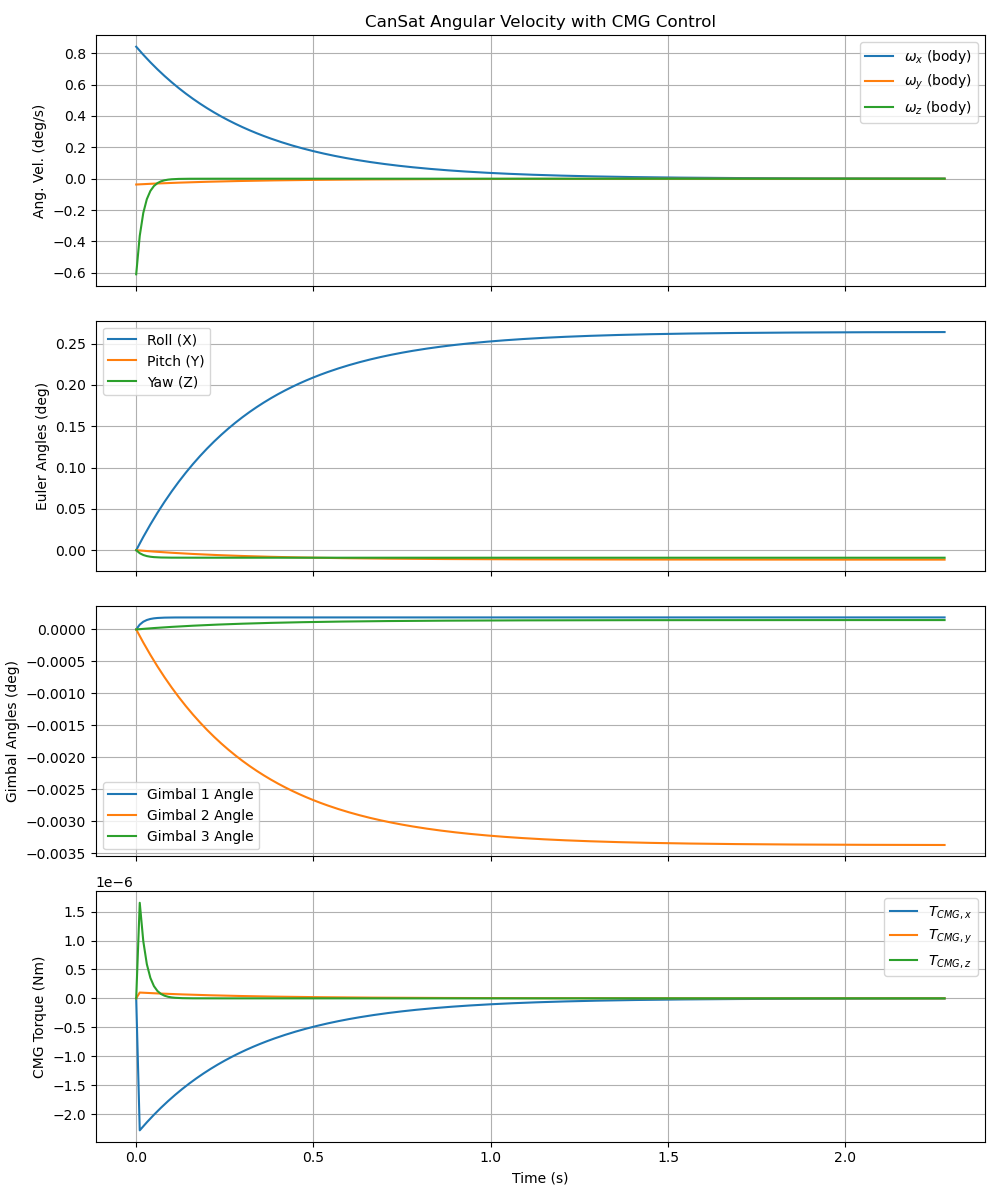
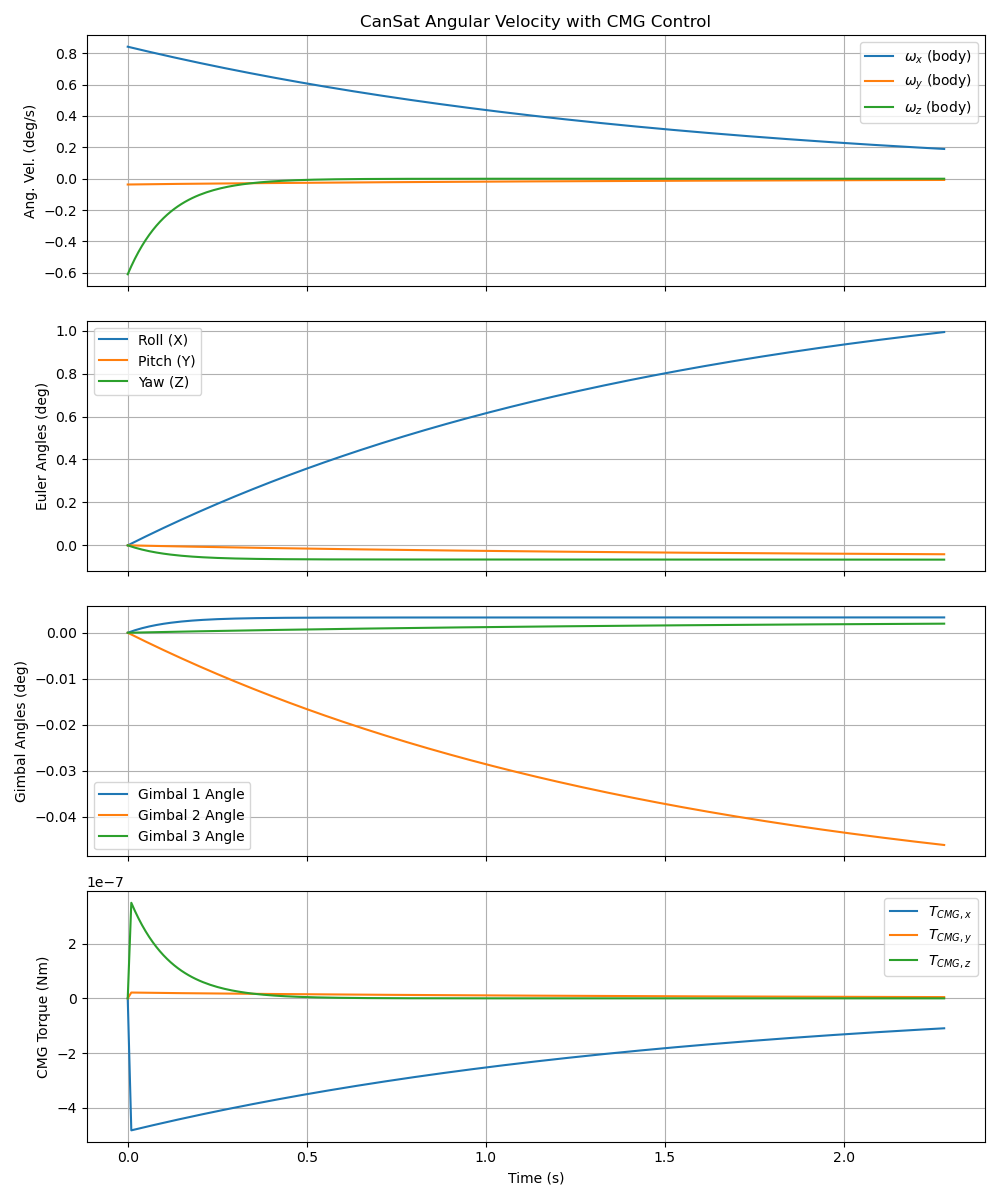
3CMGのシミュレーションを追加

diff --git a/cmg_controller.py b/cmg_controller.py
@@ -16,7 +16,9 @@ CAN_WIDTH = 0.020   # Y軸方向
 CAN_HEIGHT = 0.095  # Z軸方向
 
 
-
+"""
+テンソアを計算
+"""
 def get_inertia_tensor_cuboid(mass, l, w, h):
     I_xx = (1/12) * mass * (w**2 + h**2)
     I_yy = (1/12) * mass * (l**2 + h**2)
@@ -27,15 +29,18 @@ I_CANSAT_BODY = get_inertia_tensor_cuboid(MASS_CANSAT, CAN_LENGTH, CAN_WIDTH, CA
 I_CANSAT_BODY_INV = np.linalg.inv(I_CANSAT_BODY)
 
 # CMG パラメータ (例 - 3基共通とする)
-I_WHEEL = 2e-5  # ホイールの慣性モーメント (kg*m^2)
-OMEGA_WHEEL_NOMINAL_RPM = 6000  # ホイール定格回転数 (rpm)
+I_WHEEL = 1.357e-5  # ホイールの慣性モーメント (kg*m^2)　タングステン合金を想定
+OMEGA_WHEEL_NOMINAL_RPM = 500  # ホイール定格回転数 (rpm)
 OMEGA_WHEEL_NOMINAL_RAD_S = OMEGA_WHEEL_NOMINAL_RPM * (2 * np.pi) / 60
 H_WHEEL_SCALAR = I_WHEEL * OMEGA_WHEEL_NOMINAL_RAD_S # ホイールの角運動量の大きさ
 GIMBAL_RATE_MAX_DPS = 90  # ジンバル最大角速度 (deg/s)
 GIMBAL_RATE_MAX_RAD_S = np.deg2rad(GIMBAL_RATE_MAX_DPS)
 
 # 制御ゲイン
-KP_OMEGA = 0.01 # 角速度制御の比例ゲイン (要調整)
+KP_OMEGA = 0.65 # 角速度制御の比例ゲイン でかくすると振動する
+
+# CMGの想定は
+
 
 # CMG配置: [ジンバル軸(物体座標系), ジンバル角0度でのホイールスピン軸(物体座標系)]
 CMG_CONFIG = [
@@ -43,15 +48,14 @@ CMG_CONFIG = [
     {'gimbal_axis': np.array([0., 1., 0.]), 'initial_spin_axis': np.array([0., 0., 1.])}, # CMG2: Yジンバル, Zスピン
     {'gimbal_axis': np.array([0., 0., 1.]), 'initial_spin_axis': np.array([1., 0., 0.])}, # CMG3: Zジンバル, Xスピン
 ]
+
 NUM_CMGS = len(CMG_CONFIG)
 
-# 観測された角速度データ (dps単位のリスト gyro_datas_x, gyro_datas_y, gyro_datas_z があると仮定)
+# 観測された角速度データ [dps]
 gyro_datas_x = [0.841, 0.833, 0.852, 0.848, 0.791, 0.781, 0.891, 0.802, 0.884, 0.843, 0.875, 0.734, 0.769, 0.829, 0.786, 0.919, 0.889, 0.807, 0.834, 0.927, 0.886, 0.963, 1.007, 0.892, 0.855, 0.765, 0.479, 0.424, 0.633, 0.674, 0.577, 0.496, 0.572, 0.648, 0.587, 0.371, 0.448, 0.487, 0.599, 0.622, 0.655, 0.455, 0.992, 0.644, 0.99, 1.021, 0.877, 0.821, 0.805, 0.865, 0.802, 0.796, 0.813, 0.716, 0.799, 0.802, 0.855, 0.913, 0.834, 0.839, 0.806, 0.819, 0.783, 0.834, 0.877, 0.854, 0.726, 0.746, 0.785, 0.771, 0.786, 0.787, 0.817, 0.701, 0.725, 0.645, 0.441, 0.57, 0.262, 0.184, 0.29, 0.399, 0.321, 0.263, 0.251, 0.306, 0.274, 0.303, 0.342, 0.304, 0.296, 0.316, 0.348, 0.335, 0.336, 0.372, 0.37, 0.372, 0.362, 0.342, 0.337, 0.345, 0.337, 0.318, 0.329, 0.303, 0.309, 0.318, 0.316, 0.322, 0.315, 0.325, 0.321, 0.309, 0.313, 0.332, 0.346, 0.31, 0.297, 0.278, 0.294, 0.317, 0.293, 0.277, 0.274, 0.271, 0.257, 0.278, 0.292, 0.303, 0.257, 0.289, 0.347, 0.375, 0.379, 0.315, 0.404, 0.465, 0.519, 0.494, 0.544, 0.526, 0.514, 0.52, 0.501, 0.531, 0.519, 0.599, 0.597, 0.576, 0.601, 0.574, 0.548, 0.543, 0.53, 0.566, 0.567, 0.637, 0.087, 0.137, 0.341, 0.457, 0.425, 0.532, 0.565, 0.505, 0.836, 0.717, 0.572, 0.349, 0.421, 0.542, 0.745, 0.76, 0.656, 0.586, 0.515, 0.382, 0.149, -0.022, 0.442, 0.516, -0.021, -0.553, -1, -0.268, -0.287, -0.219, -0.228, -0.375, -0.255, -0.25, -0.136, -0.204, -0.08, 0.059, -0.083, -0.041, -0.005, -0.016, -0.079, -0.056, 0.084, 0.038, 0.122, 0.098, 0.053, 0.005, -0.008, 0.148, 0.204, 0.268, 0.26, 0.234, 0.216, 0.249, 0.285, 0.152, 0.209, 0.37, 0.091, 0.419, 0.217, 0.334, 0.267, 0.339, 0.226, 0.307, 0.295]
 gyro_datas_y = [-0.037, -0.041, -0.021, -0.168, 0.082, 0.094, 0.013, 0.119, 0.191, 0.134, 0.168, 0.168, 0.181, 0.181, 0.155, 0.16, 0.198, 0.354, 0.299, 0.443, 0.32, 0.229, -0.077, -0.103, -0.343, -0.419, -0.604, -0.685, -0.799, -0.767, -0.677, -0.654, -0.7, -0.82, -0.724, -0.132, -0.682, -0.729, -0.696, -0.49, -0.611, -0.141, -0.386, -0.132, -0.386, -0.263, -0.342, -0.332, -0.338, -0.341, -0.32, -0.358, -0.398, -0.422, -0.492, -0.425, -0.38, -0.438, -0.389, -0.358, -0.372, -0.333, -0.335, -0.365, -0.416, -0.42, -0.423, -0.468, -0.491, -0.46, -0.482, -0.466, -0.485, -0.382, -0.429, -0.337, -0.226, -0.61, -0.321, -0.329, -0.372, -0.472, -0.401, -0.34, -0.423, -0.451, -0.442, -0.446, -0.387, -0.362, -0.33, -0.382, -0.414, -0.404, -0.396, -0.396, -0.387, -0.407, -0.4, -0.377, -0.381, -0.377, -0.378, -0.381, -0.393, -0.372, -0.381, -0.377, -0.386, -0.397, -0.393, -0.403, -0.386, -0.386, -0.396, -0.429, -0.405, -0.44, -0.398, -0.395, -0.447, -0.502, -0.502, -0.485, -0.463, -0.456, -0.445, -0.466, -0.421, -0.409, -0.425, -0.503, -0.478, -0.479, -0.607, -0.479, -0.545, -0.515, -0.625, -0.445, -0.495, -0.382, -0.329, -0.362, -0.359, -0.396, -0.385, -0.411, -0.388, -0.352, -0.365, -0.357, -0.319, -0.332, -0.312, -0.31, -0.29, -0.297, -0.039, -0.064, -0.162, -0.325, -0.291, -0.373, -0.3, -0.139, -0.478, -0.261, -0.475, -0.412, -0.516, -0.517, -0.724, -0.706, -0.525, -0.669, -0.663, -0.384, -0.45, -0.929, -0.387, -0.301, -5.189, -0.387, -1.412, -0.163, -0.353, -0.575, -0.495, -0.298, -0.388, -0.491, -0.437, -0.397, -0.5, -0.48, -0.546, -0.377, -0.421, -0.449, -0.406, -0.521, -0.504, -0.531, -0.338, -0.284, -0.317, -0.273, -0.189, -0.316, -0.219, -0.153, -0.022, -0.165, -0.145, -0.042, 0.033, -0.049, -0.019, -0.007, -0.034, -0.057, -0.254, -0.232, -0.39, -0.266, -0.316, -0.068, -0.146]
 gyro_datas_z = [-0.609,-0.585,-0.604,-0.622,-0.567,-0.607,-0.665,-0.596,-0.662,-0.645,-0.665,-0.58,-0.606,-0.647,-0.606,-0.688,-0.675,-0.571,-0.438,-0.42,-0.331,-0.332,-0.257,-0.153,-0.271,-0.525,-0.561,-0.491,-0.375,-0.342,-0.509,-0.503,-0.445,-0.385,-0.281,-0.413,-0.937,-0.759,-0.703,-0.636,-0.66,-0.433,-0.907,-0.557,-0.663,-0.632,-0.566,-0.481,-0.457,-0.498,-0.476,-0.481,-0.451,-0.424,-0.482,-0.47,-0.51,-0.545,-0.492,-0.49,-0.448,-0.443,-0.425,-0.464,-0.562,-0.514,-0.479,-0.513,-0.559,-0.541,-0.556,-0.553,-0.585,-0.535,-0.578,-0.553,-0.454,-1.005,-0.917,-0.906,-0.892,-1.016,-0.896,-0.826,-0.962,-0.908,-0.893,-0.987,-1.023,-0.888,-0.875,-0.914,-0.998,-0.909,-0.895,-0.957,-0.948,-0.999,-0.913,-0.889,-0.898,-0.929,-0.923,-0.908,-0.919,-0.891,-0.928,-0.949,-0.927,-0.918,-0.897,-0.916,-0.91,-0.885,-0.917,-0.958,-0.936,-0.883,-0.844,-0.874,-0.885,-0.952,-0.917,-0.887,-0.935,-0.879,-0.86,-0.913,-0.921,-0.92,-0.829,-0.857,-0.75,-0.742,-0.895,-0.779,-0.937,-0.807,-0.847,-0.743,-0.838,-0.808,-0.762,-0.755,-0.781,-0.815,-0.787,-0.871,-0.856,-0.826,-0.872,-0.839,-0.782,-0.781,-0.745,-0.775,-0.758,-0.838,-0.135,-0.272,-0.296,-0.435,-0.39,-0.478,-0.63,-0.583,-0.605,-0.833,-0.787,-0.75,-1.035,-1.058,-0.988,-0.891,-0.895,-1.134,-0.953,-0.635,-0.725,-1.155,-0.602,-1.457,7.93,1.188,-1.413,-0.945,-0.962,-0.753,-0.701,-0.892,-0.803,-0.795,-0.901,-0.839,-0.926,-0.919,-1.081,-0.89,-0.883,-0.906,-0.885,-0.961,-1.133,-1.193,-0.998,-0.84,-0.955,-0.993,-1.011,-1.072,-1.112,-1.021,-1.031,-0.983,-0.884,-1.005,-1.124,-1.123,-0.994,-0.851,-0.941,-1.175,-1.043,-0.967,-0.983,-0.94,-1.009,-0.969,-0.982]
-	
-# ※これらのリストが同じ長さで、対応する時間軸があることを想定しています。
-# ※もし時間軸データがない場合は、サンプリングレートからDTを決定する必要があります。
+
 
 if not (gyro_datas_x and gyro_datas_y and gyro_datas_z and \
         len(gyro_datas_x) == len(gyro_datas_y) == len(gyro_datas_z) and \
@@ -224,9 +228,10 @@ plt.tight_layout()
 plt.savefig("cansat_cmg_simulation_plots.png")
 plt.show()
 
-# --- 5. アニメーション (既存のコードを参考に作成) ---
-# ここでは省略しますが、orientation_hist_quat を使って物体の姿勢をアニメーション化します。
-# 物体の頂点座標 (既存のものを流用)
+
+# --- 5. アニメーション ---
+
+# CanSat本体の頂点定義
 vertices_body_frame = np.array([
     [-CAN_LENGTH/2, -CAN_WIDTH/2, -CAN_HEIGHT/2], [ CAN_LENGTH/2, -CAN_WIDTH/2, -CAN_HEIGHT/2],
     [ CAN_LENGTH/2,  CAN_WIDTH/2, -CAN_HEIGHT/2], [-CAN_LENGTH/2,  CAN_WIDTH/2, -CAN_HEIGHT/2],
@@ -234,33 +239,208 @@ vertices_body_frame = np.array([
     [ CAN_LENGTH/2,  CAN_WIDTH/2,  CAN_HEIGHT/2], [-CAN_LENGTH/2,  CAN_WIDTH/2,  CAN_HEIGHT/2]
 ])
 
-fig_anim = plt.figure(figsize=(8,8))
-ax_anim = fig_anim.add_subplot(111, projection='3d')
+# CMGホイール描画用のパラメータ
+WHEEL_RADIUS = 0.015  # ホイールの半径 (m) - CanSatのサイズに合わせて調整
+WHEEL_THICKNESS = 0.003 # ホイールの厚み (m) - 視覚的なもの
+SPOKE_COLOR = 'red'
+WHEEL_EDGE_COLOR = 'darkgray'
+WHEEL_FACE_COLOR = 'lightgray'
 
-def update_animation(frame):
-    ax_anim.cla()
-    ax_anim.set_xlim([-0.1, 0.1]); ax_anim.set_ylim([-0.1, 0.1]); ax_anim.set_zlim([-0.1, 0.1]) # スケール調整
-    ax_anim.set_xlabel("X"); ax_anim.set_ylabel("Y"); ax_anim.set_zlabel("Z")
-    ax_anim.set_title(f"CanSat Attitude, Time: {time_hist[frame]:.2f} s")
+def create_cylinder_mesh(radius, height, n_segments=20):
+    """円柱のメッシュデータを生成 (中心が原点、軸がZ軸方向)"""
+    # 底面と上面の円周上の点
+    theta = np.linspace(0, 2 * np.pi, n_segments, endpoint=False)
+    x = radius * np.cos(theta)
+    y = radius * np.sin(theta)
 
-    # Scipyのクォータニオンは [x,y,z,w] なので、Rotationオブジェクトに渡す際はそのまま
-    q_current_scipy = orientation_hist_quat[frame, :]
-    R_body_to_inertial = R.from_quat(q_current_scipy).as_matrix()
+    # 底面の頂点 (z = -height/2)
+    bottom_verts = np.vstack((x, y, -height/2 * np.ones(n_segments))).T
+    # 上面の頂点 (z = height/2)
+    top_verts = np.vstack((x, y, height/2 * np.ones(n_segments))).T
 
-    rotated_vertices = (R_body_to_inertial @ vertices_body_frame.T).T
+    all_verts = np.vstack((bottom_verts, top_verts))
 
-    faces = [
-        [rotated_vertices[0], rotated_vertices[1], rotated_vertices[2], rotated_vertices[3]],
-        [rotated_vertices[4], rotated_vertices[5], rotated_vertices[6], rotated_vertices[7]],
-        [rotated_vertices[0], rotated_vertices[1], rotated_vertices[5], rotated_vertices[4]],
-        [rotated_vertices[2], rotated_vertices[3], rotated_vertices[7], rotated_vertices[6]],
-        [rotated_vertices[1], rotated_vertices[2], rotated_vertices[6], rotated_vertices[5]],
-        [rotated_vertices[0], rotated_vertices[3], rotated_vertices[7], rotated_vertices[4]]
+    faces = []
+    # 側面
+    for i in range(n_segments):
+        i_next = (i + 1) % n_segments
+        faces.append([bottom_verts[i], bottom_verts[i_next], top_verts[i_next], top_verts[i]])
+    # 底面 (ポリゴンとして描画)
+    # faces.append(Poly3DCollection([bottom_verts], facecolors=WHEEL_FACE_COLOR, edgecolors=WHEEL_EDGE_COLOR, alpha=0.8))
+    #上面
+    # faces.append(Poly3DCollection([top_verts], facecolors=WHEEL_FACE_COLOR, edgecolors=WHEEL_EDGE_COLOR, alpha=0.8))
+    return all_verts, faces # ここでは側面の面定義のみ返す (Poly3DCollectionで使うため)
+
+def create_disk_points(radius, n_points=50):
+    """指定された半径の円周上の点を生成 (XY平面上、Z=0)"""
+    theta = np.linspace(0, 2 * np.pi, n_points)
+    x = radius * np.cos(theta)
+    y = radius * np.sin(theta)
+    z = np.zeros(n_points)
+    return np.vstack((x, y, z)).T # Nx3 配列
+
+
+fig_anim_cmg = plt.figure(figsize=(10,10)) # ウィンドウサイズ調整
+ax_anim_cmg = fig_anim_cmg.add_subplot(111, projection='3d')
+ax_anim_cmg.view_init(elev=25, azim=45) # 固定のカメラ視点
+
+# アニメーション更新関数
+def update_animation_with_cmg(frame):
+    ax_anim_cmg.cla()
+    ax_anim_cmg.set_xlim([-0.05, 0.05]); ax_anim_cmg.set_ylim([-0.05, 0.05]); ax_anim_cmg.set_zlim([-0.07, 0.07]) # 描画範囲調整
+    ax_anim_cmg.set_xlabel("X_inertial"); ax_anim_cmg.set_ylabel("Y_inertial"); ax_anim_cmg.set_zlabel("Z_inertial")
+    ax_anim_cmg.set_title(f"CanSat Attitude & CMG, Time: {time_hist[frame]:.2f} s")
+
+    # --- 1. CanSat本体の描画 ---
+    q_cansat_current = orientation_hist_quat[frame, :]
+    R_cansat_to_inertial_mat = R.from_quat(q_cansat_current).as_matrix()
+    rotated_cansat_vertices = (R_cansat_to_inertial_mat @ vertices_body_frame.T).T
+    cansat_faces_def = [ # 直方体の面定義
+        [rotated_cansat_vertices[0], rotated_cansat_vertices[1], rotated_cansat_vertices[2], rotated_cansat_vertices[3]],
+        [rotated_cansat_vertices[4], rotated_cansat_vertices[5], rotated_cansat_vertices[6], rotated_cansat_vertices[7]],
+        [rotated_cansat_vertices[0], rotated_cansat_vertices[1], rotated_cansat_vertices[5], rotated_cansat_vertices[4]],
+        [rotated_cansat_vertices[2], rotated_cansat_vertices[3], rotated_cansat_vertices[7], rotated_cansat_vertices[6]],
+        [rotated_cansat_vertices[1], rotated_cansat_vertices[2], rotated_cansat_vertices[6], rotated_cansat_vertices[5]],
+        [rotated_cansat_vertices[0], rotated_cansat_vertices[3], rotated_cansat_vertices[7], rotated_cansat_vertices[4]]
     ]
-    poly3d = Poly3DCollection(faces, facecolors='cyan', linewidths=1, edgecolors='k', alpha=0.7)
-    ax_anim.add_collection3d(poly3d)
+    # 缶サットの描画
+
+    cansat_poly3d = Poly3DCollection(
+    cansat_faces_def,
+    facecolors='cyan',  # 面の色
+    linewidths=0.5,     # 輪郭線を細くするのも効果的です
+    edgecolors='gray',  # 輪郭線の色
+    alpha=0.15          # 透過度を調整
+    )    
+    ax_anim_cmg.add_collection3d(cansat_poly3d)
+
+    # --- 2. 各CMGの描画 ---
+    for k_cmg in range(NUM_CMGS):
+        # a. CMGの基本設定 (CanSatボディ座標系)
+        gimbal_axis_body = CMG_CONFIG[k_cmg]['gimbal_axis']
+        initial_spin_axis_body = CMG_CONFIG[k_cmg]['initial_spin_axis']
+        
+        # CMGの取り付け位置 (CanSatボディ座標系) - 例: CanSatのZ軸に沿って少しずらす
+        # (これは例なので、実際の配置に合わせて調整してください)
+        offset_scale = 0.03 # CanSatの中心から少しずらす距離
+        if k_cmg == 0: cmg_position_body = np.array([0, 0, offset_scale])  # 上の方
+        elif k_cmg == 1: cmg_position_body = np.array([0, 0, 0])           # 中央
+        else: cmg_position_body = np.array([0, 0, -offset_scale]) # 下の方
+        # もしX,Y,Z軸にそれぞれ配置するなら:
+        # if gimbal_axis_body[0] == 1: cmg_position_body = np.array([offset_scale * 0.7, 0, 0])
+        # elif gimbal_axis_body[1] == 1: cmg_position_body = np.array([0, offset_scale * 0.7, 0])
+        # else: cmg_position_body = np.array([0, 0, offset_scale * 0.7])
+
+
+        # b. 現在のジンバル角度とジンバル回転行列 (ボディ座標系内でジンバル回転)
+        current_gimbal_angle_rad = gimbal_angles_rad_hist[frame, k_cmg]
+        R_gimbal_in_body = R.from_rotvec(gimbal_axis_body * current_gimbal_angle_rad).as_matrix()
+
+        # c. ジンバル回転後のホイールスピン軸 (CanSatボディ座標系)
+        current_spin_axis_body = R_gimbal_in_body @ initial_spin_axis_body
+
+        # d. ホイールの変換行列を計算 (基準姿勢から現在の姿勢へ)
+        #    基準姿勢: ホイールの中心が原点、スピン軸がZ軸=[0,0,1]
+        #    目標姿勢: 中心が cmg_position_body、スピン軸が current_spin_axis_body (これら全てCanSatボディ座標系内)
+        
+        #    d1. Z軸を current_spin_axis_body に合わせる回転 (ボディ座標系内)
+        vec_from = np.array([0., 0., 1.])
+        vec_to = current_spin_axis_body / np.linalg.norm(current_spin_axis_body)
+        
+        R_spin_align_in_body = np.eye(3)
+        if not np.allclose(vec_from, vec_to):
+            if np.allclose(vec_from, -vec_to): # 180度回転
+                # vec_fromに垂直な軸を一つ見つける (例: X軸とクロス積)
+                ortho_axis = np.cross(vec_from, np.array([1.,0.,0.]))
+                if np.linalg.norm(ortho_axis) < 1e-6: # vec_from がX軸に平行だった場合
+                    ortho_axis = np.cross(vec_from, np.array([0.,1.,0.]))
+                if np.linalg.norm(ortho_axis) > 1e-6:
+                   R_spin_align_in_body = R.from_rotvec(np.pi * ortho_axis / np.linalg.norm(ortho_axis)).as_matrix()
+                else: # 稀なケース、vec_from が Z軸で ortho_axis もゼロになることはないはず
+                   R_spin_align_in_body = np.diag([1.,-1.,-1.]) # 180度回転の例
+            else:
+                rot_obj, _ = R.align_vectors(vec_to[np.newaxis,:], vec_from[np.newaxis,:])
+                R_spin_align_in_body = rot_obj.as_matrix()
+        
+        # e. ホイールの描画
+        #    e1. ホイールのメッシュ (円柱形状)
+        base_wheel_verts, base_wheel_faces_def = create_cylinder_mesh(WHEEL_RADIUS, WHEEL_THICKNESS)
+        
+        #    e2. ボディ座標系でのホイール頂点
+        #        まずスピン軸方向に回転させ、次にCMGの取り付け位置に平行移動
+        wheel_verts_body = (R_spin_align_in_body @ base_wheel_verts.T).T + cmg_position_body
+        
+        #    e3. 慣性系でのホイール頂点
+        wheel_verts_inertial = (R_cansat_to_inertial_mat @ wheel_verts_body.T).T
+
+        #    e4. Poly3DCollectionでホイールの面を描画 (側面)
+        # Poly3DCollectionは頂点リストのリストを受け取るので、facesの定義を調整
+        wheel_faces_for_plot = []
+        for face_indices_in_base_wheel_verts in base_wheel_faces_def: # これは現在頂点そのもの
+            # wheel_faces_for_plot.append([wheel_verts_inertial[idx] for idx in face_indices_in_base_wheel_verts])
+            # create_cylinder_mesh が直接頂点を返す場合
+            face_verts_body = (R_spin_align_in_body @ np.array(face_indices_in_base_wheel_verts).T).T + cmg_position_body
+            face_verts_inertial = (R_cansat_to_inertial_mat @ face_verts_body.T).T
+            wheel_faces_for_plot.append(face_verts_inertial)
+
+
+        wheel_poly3d = Poly3DCollection(wheel_faces_for_plot, facecolors=WHEEL_FACE_COLOR, edgecolors=WHEEL_EDGE_COLOR, alpha=0.9, linewidths=0.5)
+        ax_anim_cmg.add_collection3d(wheel_poly3d)
+
+        #    e5. ホイールの上面と底面を円として描画 (線を引く)
+        disk_base_pts = create_disk_points(WHEEL_RADIUS) # (N,3)
+        
+        top_disk_center_body = cmg_position_body + R_spin_align_in_body @ np.array([0,0,WHEEL_THICKNESS/2])
+        bottom_disk_center_body = cmg_position_body + R_spin_align_in_body @ np.array([0,0,-WHEEL_THICKNESS/2])
+
+        top_disk_pts_body = (R_spin_align_in_body @ disk_base_pts.T).T + top_disk_center_body
+        bottom_disk_pts_body = (R_spin_align_in_body @ disk_base_pts.T).T + bottom_disk_center_body
+        
+        top_disk_pts_inertial = (R_cansat_to_inertial_mat @ top_disk_pts_body.T).T
+        bottom_disk_pts_inertial = (R_cansat_to_inertial_mat @ bottom_disk_pts_body.T).T
+
+        ax_anim_cmg.plot(top_disk_pts_inertial[:,0], top_disk_pts_inertial[:,1], top_disk_pts_inertial[:,2], color=WHEEL_EDGE_COLOR, linewidth=1)
+        ax_anim_cmg.plot(bottom_disk_pts_inertial[:,0], bottom_disk_pts_inertial[:,1], bottom_disk_pts_inertial[:,2], color=WHEEL_EDGE_COLOR, linewidth=1)
+
+
+        #    f. ホイールのスピンを示す「スポーク」
+        #       スピン角 (視覚効果用、実際の角速度とは異なる遅い速度)
+        visual_spin_rate_factor = 0.02 # 遅く見せるための係数
+        wheel_spin_angle_visual = (frame * DT * OMEGA_WHEEL_NOMINAL_RAD_S * visual_spin_rate_factor) % (2 * np.pi)
+
+        #       スポークの端点 (ホイールのローカルZ軸周りに回転するXY平面上の線)
+        spoke_start_local = np.array([0, 0, 0]) # ホイール中心
+        spoke_end_local = np.array([WHEEL_RADIUS * 0.9, 0, 0]) # ホイール半径の90%
+        
+        R_spoke_visual_spin = R.from_euler('z', wheel_spin_angle_visual).as_matrix() # ローカルZ軸周り
+        spoke_start_spun_local = R_spoke_visual_spin @ spoke_start_local
+        spoke_end_spun_local = R_spoke_visual_spin @ spoke_end_local
+        
+        #       ボディ座標系へ -> 慣性系へ
+        spoke_start_body = R_spin_align_in_body @ spoke_start_spun_local + cmg_position_body
+        spoke_end_body   = R_spin_align_in_body @ spoke_end_spun_local + cmg_position_body
+        
+        spoke_start_inertial = R_cansat_to_inertial_mat @ spoke_start_body
+        spoke_end_inertial   = R_cansat_to_inertial_mat @ spoke_end_body
+        
+        ax_anim_cmg.plot([spoke_start_inertial[0], spoke_end_inertial[0]],
+                         [spoke_start_inertial[1], spoke_end_inertial[1]],
+                         [spoke_start_inertial[2], spoke_end_inertial[2]],
+                         color=SPOKE_COLOR, linewidth=1.5)
+
+        # (オプション) ジンバル軸を描画
+        gimbal_axis_inertial = R_cansat_to_inertial_mat @ gimbal_axis_body
+        cmg_center_inertial = R_cansat_to_inertial_mat @ cmg_position_body
+        axis_viz_length = WHEEL_RADIUS * 1.2
+        g_start = cmg_center_inertial - gimbal_axis_inertial * axis_viz_length / 2
+        g_end   = cmg_center_inertial + gimbal_axis_inertial * axis_viz_length / 2
+        # ax_anim_cmg.plot([g_start[0], g_end[0]], [g_start[1], g_end[1]], [g_start[2], g_end[2]], color='blue', linestyle=':', linewidth=1)
+
+
     return []
 
-ani = FuncAnimation(fig_anim, update_animation, frames=num_steps, blit=False, interval=DT*1000)
-#ani.save("cansat_cmg_animation.mp4", writer=FFMpegWriter(fps=int(1/DT))) # 保存する場合
+# アニメーションの実行
+# (num_steps と DT はシミュレーション結果から取得できていると仮定)
+ani_cmg = FuncAnimation(fig_anim_cmg, update_animation_with_cmg, frames=num_steps, blit=False, interval=DT*1000)
+# ani_cmg.save("cansat_with_cmg_animation.mp4", writer=FFMpegWriter(fps=int(1/DT))) # 保存する場合
 plt.show()

diff --git a/CMG.py b/CMG.py
@@ -205,7 +205,7 @@ def update(frame, gyro_rad_x, gyro_rad_y, gyro_rad_z, vertices):
     ]
 
     #回転盤の表示
-    draw_rotation_circle(ax, omega_local, scale=0.5)
+    #draw_rotation_circle(ax, omega_local, scale=0.5)
 
     # 面ごとの色設定
     face_colors = ['red', 'blue', 'green', 'yellow', 'cyan', 'magenta']
